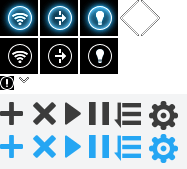
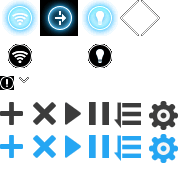
router.1

Changed region(s): [[0.0, 0.0, 0.6417, 0.4438]]

diff --git a/router.html b/router.html
@@ -50,8 +50,7 @@
                    <li><a href="#" title="超清视频"><i class="dnl_ico dnl_movie"></i>超清视频</a></li>
                    <li><a href="#" title="资源搜索"><i class="dnl_ico dnl_search"></i>资源搜索</a></li>
                    <li><a href="#" title="硬盘管理"><i class="dnl_ico dnl_desk"></i>硬盘管理</a></li>
-                  </ul>                  
-
+                  </ul>
 
                </div>
                <div class="router_mian">
@@ -72,7 +71,7 @@
                     <div class="download_box">
                        <ul class="db_list">
                         <li>
-                          <span class="type_ico"><img src="type_ico/mp3.png" alt=""></span>
+                          <span class="type_ico"><img src="images/null.gif" class="file-zip" alt=""/></span>
                           <dl>
                                   <dt>bb2059.rar</dt>
                                   <dd>743K</dd>
@@ -86,7 +85,7 @@
 
                         </li>                        
                         <li>
-                          <span class="type_ico"><img src="type_ico/movie.png" alt=""></span>
+                          <span class="type_ico"><img src="images/null.gif" class="file-video" alt=""/></span>
                           <dl>
                                   <dt>bb2059.rar</dt>
                                   <dd>743K</dd>
@@ -100,7 +99,7 @@
 
                         </li>                        
                         <li>
-                          <span class="type_ico"><img src="type_ico/zip.png" alt=""></span>
+                          <span class="type_ico"><img src="images/null.gif" class="file-txt" alt=""/></span>
                           <dl>
                                   <dt>bb2059.rar</dt>
                                   <dd>743K</dd>
@@ -109,12 +108,10 @@
                           <div class="db_c">
                               <a href="#" title="播放">播放</a>
                               <a href="#" title="转存至其他">转存至其他</a>
-
                           </div>
-
                         </li>                        
                         <li>
-                          <span class="type_ico"><img src="type_ico/txt.png" alt=""></span>
+                          <span class="type_ico"><img src="images/null.gif" class="file-mp3" alt=""/></span>
                           <dl>
                                   <dt>bb2059.rar</dt>
                                   <dd>743K</dd>
@@ -187,7 +184,9 @@
 
 		           </div> <!-- 路由器数据 -->
 		           <div class="router_pic">
-		           		<div class="router_pic_img"></div>
+		           		<div class="router_pic_img">
+		           			<div class="router_pic_icon"></div>
+		           		</div>
 		           </div>
 		           
 		           
@@ -269,11 +268,8 @@
 		                <div class="speed_chat_box">
 		                   <h3>当前路由状态<span class="speed">当前下载速度：1.7M／s</span></h3>
 		                   <div class="speed_chat">这里放速度图表</div>
-
 		                </div>
-
 		               </div>
-
 		           </div>
 		           </div>
 	           <!-- 设备管理 end-->
@@ -281,12 +277,12 @@
 		</div>
 	</div>
 	<!-- 背景图片 start-->
-	<div class="main-bg"></div>
+	<div class="main-bg">
+		<svg><div class="imgbg"><!-- 不支持svg的浏览器使用图片来实现 --></div></svg>
+	</div>
 	<!-- 背景图片 end-->
-	
 	<a href="javascript:;" class="slider-ctrs-left disabled" data-action="sliderLeft">&lt;<label class="slider-ctrs-label"></label></a>
 	<a href="javascript:;" class="slider-ctrs-right disabled" data-action="sliderRight">&gt;<label class="slider-ctrs-label"></label></a>
-	
 	<script>var common={};</script>
 	<!--BUILD:js/index.js-->
 		<script type="text/javascript" src="js/jquery-1.4.3.min.js"></script>

diff --git a/js/base.js b/js/base.js
@@ -1,4 +1,13 @@
 $(function(){
+	var getParams = function(str){
+		var o = {};
+		str.replace(/([^&=]+)=([^&=]+)/g,function(){
+			o[arguments[1]] = arguments[2];
+		});
+		return o;	
+	},
+	hash = getParams(location.hash.slice(1));console.log(hash);
+	hash['slide'] = (hash['slide'] === undefined?1:+hash['slide']);
 	var elem = {
 		'main':$('.main'),
 		'mainBg':$('.main-bg'),
@@ -10,10 +19,14 @@
 	var slider = {
 		'index':0,
 		'count':2,
-		'sliderTo':function(i,f){
+		'sliderTo':function(i,f){console.log('slideTo',i);
 			var rect = common.getDocSize(),
 				w = rect.width,
 				callback = function(){
+					if (hash['slide'] !== i){
+						hash['slide'] = i;
+						location.hash = $.param(hash);
+					}
 					elem.sliderLeft.removeClass('disabled');
 					elem.sliderRight.removeClass('disabled');
 					if (slider.index === 0){
@@ -40,14 +53,16 @@
 		'getDocSize':function(){
 			return {'width':document.documentElement.clientWidth || document.body.clientWidth,'height':document.documentElement.clientHeight || document.body.clientHeight};	
 		},
-		'resizeWin':function(){
-			var rect = common.getDocSize();console.log(rect);
+		'resizeWin':function(event){
+			var rect = common.getDocSize();
 			$('.main-1,.main-2,.main-3').css({'width':rect.width,'minHeight':812});
 			$('.router_mian_wp').css({'minHeight':rect.height-156});
 			$('.main-1 .router_mian_wp').css({'minHeight':Math.max(rect.height-156,534)});
 			$('.router_con_wp').css({'top':Math.max((rect.height-554-152)/2,106)}); 
 			elem.mainSlider.width(rect.width*3);
-			slider.sliderTo(slider.index,false);
+			if (event){
+				slider.sliderTo(slider.index,false);
+			}
 		},
 		'changeSlideInfo':function(i){
 			var str,
@@ -58,15 +73,15 @@
 				][i];
 			if (i === 1){
 				str = [
-				'<a href="http://g.xunlei.com/" target="_blank" class="header-inner-right-link" title="无线">无线</a>',
-				'<a href="http://vip.xunlei.com/" target="_blank" class="header-inner-right-link" title="穿墙">穿墙</a>',
-				'<a href="http://g.xunlei.com/" target="_blank" class="header-inner-right-link" title="面板灯">面板灯</a>'
+				'<a href="javascript:;" class="c-white" title="无线" id="light-wifi"><span class="icon-wifi"></span>无线</a>',
+				'<a href="javascript:;" class="c-white" title="穿墙" id="light-enhance"><span class="icon-enhance"></span>穿墙</a>',
+				'<a href="javascript:;" class="c-white" title="面板灯" id="light-panel"><span class="icon-panel"></span>面板灯</a>'
 				].join(' ');
 			}else{
 				str = [
-				'<a href="http://g.xunlei.com/" target="_blank" class="header-inner-right-link" title="机友论坛">机友论坛</a>',
-				'<a href="http://vip.xunlei.com/" target="_blank" class="header-inner-right-link" title="开通会员">开通会员</a>',
-				'<a href="http://g.xunlei.com/" target="_blank" class="header-inner-right-link" title="网上商城">网上商城</a>'
+				'<a href="http://g.xunlei.com/" target="_blank" class="c-white" title="机友论坛">机友论坛</a>',
+				'<a href="http://vip.xunlei.com/" target="_blank" class="c-white" title="开通会员">开通会员</a>',
+				'<a href="http://g.xunlei.com/" target="_blank" class="c-white" title="网上商城">网上商城</a>'
 				].join(' ');
 			}
 			elem.sliderLeft.find('.slider-ctrs-label').html(tip[0]);
@@ -108,10 +123,9 @@
 		}
 	});
 	
-	$('.main-1,.main-2,.router_mian_wp').bind('mousewheel',function(e){
+	elem.mainSlider.bind('mousewheel',function(e){
 		var k = event.wheelDelta? event.wheelDelta:-event.detail*10;
-			this.scrollTop = this.scrollTop - k;
-			console.log([this.scrollHeight,this.clientHeight,this.scrollTop,k].join(','));
+			elem.mainSlider[0].scrollTop = this.scrollTop - k;
 			return false;
 	});
 	
@@ -139,5 +153,5 @@
 	
 	$(window).resize(common.resizeWin);
 	common.resizeWin();
-	slider.sliderTo(1,false);
+	slider.sliderTo(hash['slide'],false);
 });

diff --git a/css/base.css b/css/base.css
@@ -3,24 +3,31 @@ body{background-color:#000;margin:0;padding:0;font-family:"微软雅黑";}
 header{height:55px;background-color:rgba(57, 57, 57,.5);border-width:0 0 1px;border-image: radial-gradient(rgba(255,255,255,0),rgba(57, 57, 57,1)) 40% repeat; position:relative;z-index:2;}
 a{text-decoration:none;}
 a:focus{outline:none;}
+ul,ol,li,dl,dt,dd{margin:0;padding:0;list-style:none;}
 .c-white{color:#fff;}
 .header-inner{width:960px;margin:0 auto;position:relative;background:url(../images/logo-bg.gif) 0 50% no-repeat;}
 .header-inner-right{position:absolute;top:0;right:0;height:55px;display:block;line-height:54px;word-spacing:1.5rem;}
-.header-inner-right-link{color:#fff;text-decoration:none;}
-.logo{display:inline-block;width:310px;height:55px;text-indent:320px;overflow:hidden;background: /*#090*/url(../images/logo.png) 0 50% no-repeat;white-space:nowrap;vertical-align:bottom;
-}
+.logo{display:inline-block;width:310px;height:55px;text-indent:320px;overflow:hidden;background: /*#090*/url(../images/logo.png) 0 50% no-repeat;white-space:nowrap;vertical-align:bottom;}
+.icon-wifi,.icon-enhance,.icon-panel{background-image:url(../images/spr.png);background-repeat:no-repeat;vertical-align:middle;display:inline-block;width:38px;height:36px;}
+.icon-wifi{background-position:0 -38px;}
+.icon-enhance{background-position:-40px -38px;}
+.icon-panel{background-position:-80px -38px;}
+.icon-wifi-on{background-position:0 0;}
+.icon-enhance-on{background-position:-40px 0;}
+.icon-panel-on{background-position:-80px 0;}
 .router-selector{width:868px;margin:20px auto 0;height:60px;height:40px;color:#fff;font-size:12px;position:relative;z-index:2;}
 .router-name{color:#fff;text-decoration:none;display:inline-block;height:40px;}
 .router-options{position:absolute;top:25px;background:#446E8A;min-width:120px;border-radius:3px;visibility:hidden;}
 .router-option{display:block;padding:6px 12px;color:#fff;}
+.router-option:first-child{border-radius:5px 5px 0 0;}
+.router-option:last-child{border-radius:0 0 5px 5px;}
 .router-option:hover{background:#2B4E66;}
 .router-name:hover .router-options{visibility:visible;}
 .icon-down{font-size:16px;height:8px;overflow:hidden;display:inline-block;vertical-align:middle;font-family:"宋体";line-height:1;}
 .main{width:100%;height:100%;position:absolute;top:0;left:0;z-index:0;overflow:hidden;z-index:1;}
 .main-slider{overflow:hidden;height:100%;position:relative;}
 
-.main-bg{position:absolute;top:0;left:0;z-index:0;width:100%;height:100%;background-color:#000;background-repeat:no-repeat;/*-webkit-transition:all 0.5s ease;*/}
-/*.main-bg-1,.main-bg-2,.main-bg-3{opacity:1;}*/
+.main-bg{position:absolute;top:0;left:0;z-index:0;width:100%;height:100%;background-color:#000;background-repeat:no-repeat;}
 .main-bg-1{background-image:url(../images/svg/main1.svg);}
 .main-bg-3{background-image:url(../images/svg/main3.svg);}
 .main-1,.main-2,.main-3{height:100%;float:left;}

diff --git a/css/main-1.css b/css/main-1.css
@@ -22,8 +22,9 @@ a:hover .dnl_desk,.cur .dnl_desk{background-position: -163px -24px }
 .download_control_box{border-bottom:1px solid #C8C8C8;position:relative;height:56px; }
 .dc_list{padding:17px 0 0 24px ;list-style:none;margin:0;}
 .dc_list li{float:left;padding:0 45px 0 0; }
-.dc_ico{width:23px;height:23px;display:inline-block;background-position: 0 -102px;}
-.cur .dc_ico,.dc_ico:hover{background-position:0 -135px}
+.dc_ico{width:23px;height:23px;display:inline-block;}
+.di_add{background-position:0 -102px;}
+.di_add:hover{background-position:0 -135px}
 .di_del{background-position:-33px -102px}
 .cur .di_del,.di_del:hover{background-position:-33px -135px}
 .di_play{width:16px;background-position:-65px -102px}
@@ -36,10 +37,14 @@ a:hover .dnl_desk,.cur .dnl_desk{background-position: -163px -24px }
 .di_set{position:absolute;right:20px;top:13px;width:29px;height:29px; background-position:-149px -101px}
 .cur .di_set,.di_set:hover{background-position:-149px -134px}
 
-.db_list{padding:0 0 20px 0;}
+.db_list{padding:0 0 20px 0;list-style:none;}
 .db_list li{position:relative;padding:0 0 0 90px;height:90px;color:#787878;font-family:\5FAE\8F6F\96C5\9ED1;font-size:14px; border-bottom:1px solid #C8C8C8;}
 .db_list .type_ico{position:absolute;top:24px;left:25px;}
 .db_list dt{font-size:18px;color:#272727;padding:13px 0 0;width: 390px;overflow:hidden;text-overflow:ellipsis;white-space:nowrap;}
 .db_list .clock{padding:0 0 0 20px;}
 .db_list .db_c{position:absolute; right:19px;top:32px;font-size:16px;}
 .db_list .db_c a{color:#25A6F3;padding:0 0 0 40px;}
+.db_list .type_ico img{width:36px;height:36px;background-image:url(../images/doc.gif);background-repeat:no-repeat;}
+.file-video{background-position:-36px 0;}
+.file-mp3{background-position:-72px 0;}
+.file-txt{background-position:-108px 0;}

diff --git a/css/main-2.css b/css/main-2.css
@@ -68,13 +68,14 @@
 .ra_right{right:10px;}
 .ra_right i{background-position: -141px 0;margin:0 0 0 20px;}
 
-.router_pic{text-align:center;top:0;left:0;z-index:1;position:absolute;width:100% }
+.router_pic{text-align:center;top:0;left:0;z-index:1;position:absolute;width:100%; }
 .router_pic{
 -webkit-animation:fadeInUp 1s .4s ease both;
 -moz-animation:fadeInUp 1s .4s ease both;
 -ms-animation:fadeInUp 1s .4s ease both;
 }
-.router_pic_img{background:url(../images/router-bg.jpg) no-repeat;width:418px;height:555px;margin:0 auto;}
+.router_pic_img{background:url(../images/product.png) no-repeat;width:123px;height:497px;margin:0 auto;overflow:hidden;box-shadow:0 -80px 250px rgba(255,255,255,.2);}
+.router_pic_icon{width:72px;height:73px;background:url(../images/light.png) no-repeat;margin:106px auto 0;}
 @-webkit-keyframes fadeInUp{
 0%{opacity:0;
 -webkit-transform:translateY(20px)}
